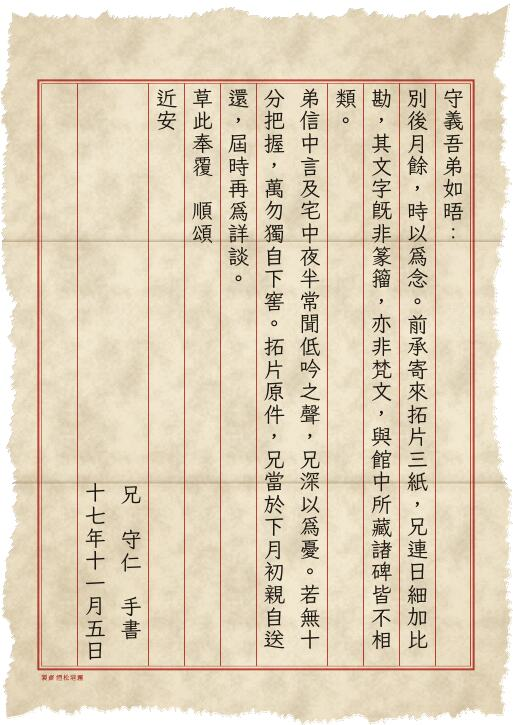
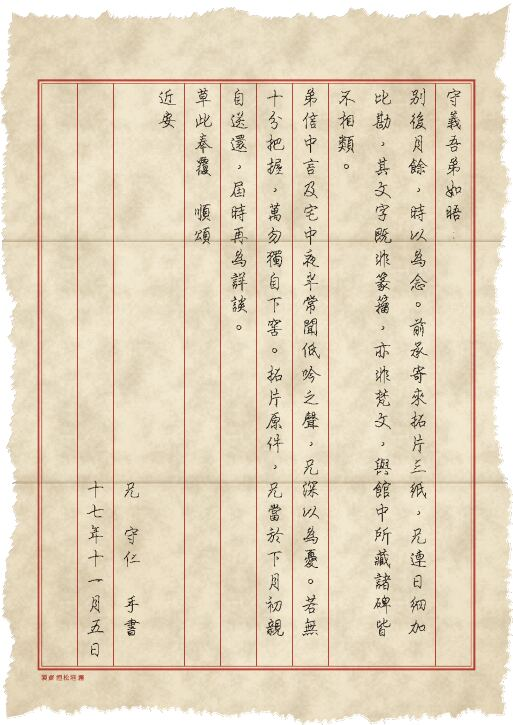
範例圖：依合併後的字型、新的裝飾與浸水重新產生
- 新增：decorations-before-after（上排舊、下排新）、handprint-before-after（舊、新乾涸、新新鮮）、
  water-50、water-90、water-strength-closeup（沒浸水／50／90 特寫）。
- 重做：裝飾全頁與特寫、浸水一半、預覽與 PDF 對照、火燒邊、火場搶出的信、
  越寫越亂 60／100／寫滿整頁（鋼筆行楷＋清松手寫體 7）。
- 信箋預設手寫字型改成鋼筆行楷後，其餘以信箋為底的範例、電報與兩個浸水預設也一併重新產生。
- README 加上裝飾、瘋狂手寫與浸水的範例表。
全部由無頭 Chromium 的列印 PDF 轉出；第三版 A 的報紙範例在這個分支重跑後與已提交的逐像素相同，未更動。

Claude-Session: https://claude.ai/code/session_01QshuMHJr6dZY8xiKzFUCcX

diff --git a/README.md b/README.md
@@ -30,6 +30,16 @@
 
 ![字型總覽](docs/samples/fonts.jpg)
 
+裝飾、瘋狂手寫與浸水（第三版）：
+
+| 血跡與血手印（特寫；上排乾涸、新鮮） | 越寫越亂：強度 60 | 強度 100 | 同一句寫滿整頁 |
+| --- | --- | --- | --- |
+| ![](docs/samples/decorations-closeup.jpg) | ![](docs/samples/madness-60.jpg) | ![](docs/samples/madness-100.jpg) | ![](docs/samples/madness-fill.jpg) |
+
+| 浸水程度 50 | 浸水程度 90 | 特寫：沒浸水／50／90 |
+| --- | --- | --- |
+| ![](docs/samples/water-50.jpg) | ![](docs/samples/water-90.jpg) | ![](docs/samples/water-strength-closeup.jpg) |
+
 更多範例（每種效果各一張）在 [`docs/samples/`](docs/samples/)。
 
 ## 道具種類
